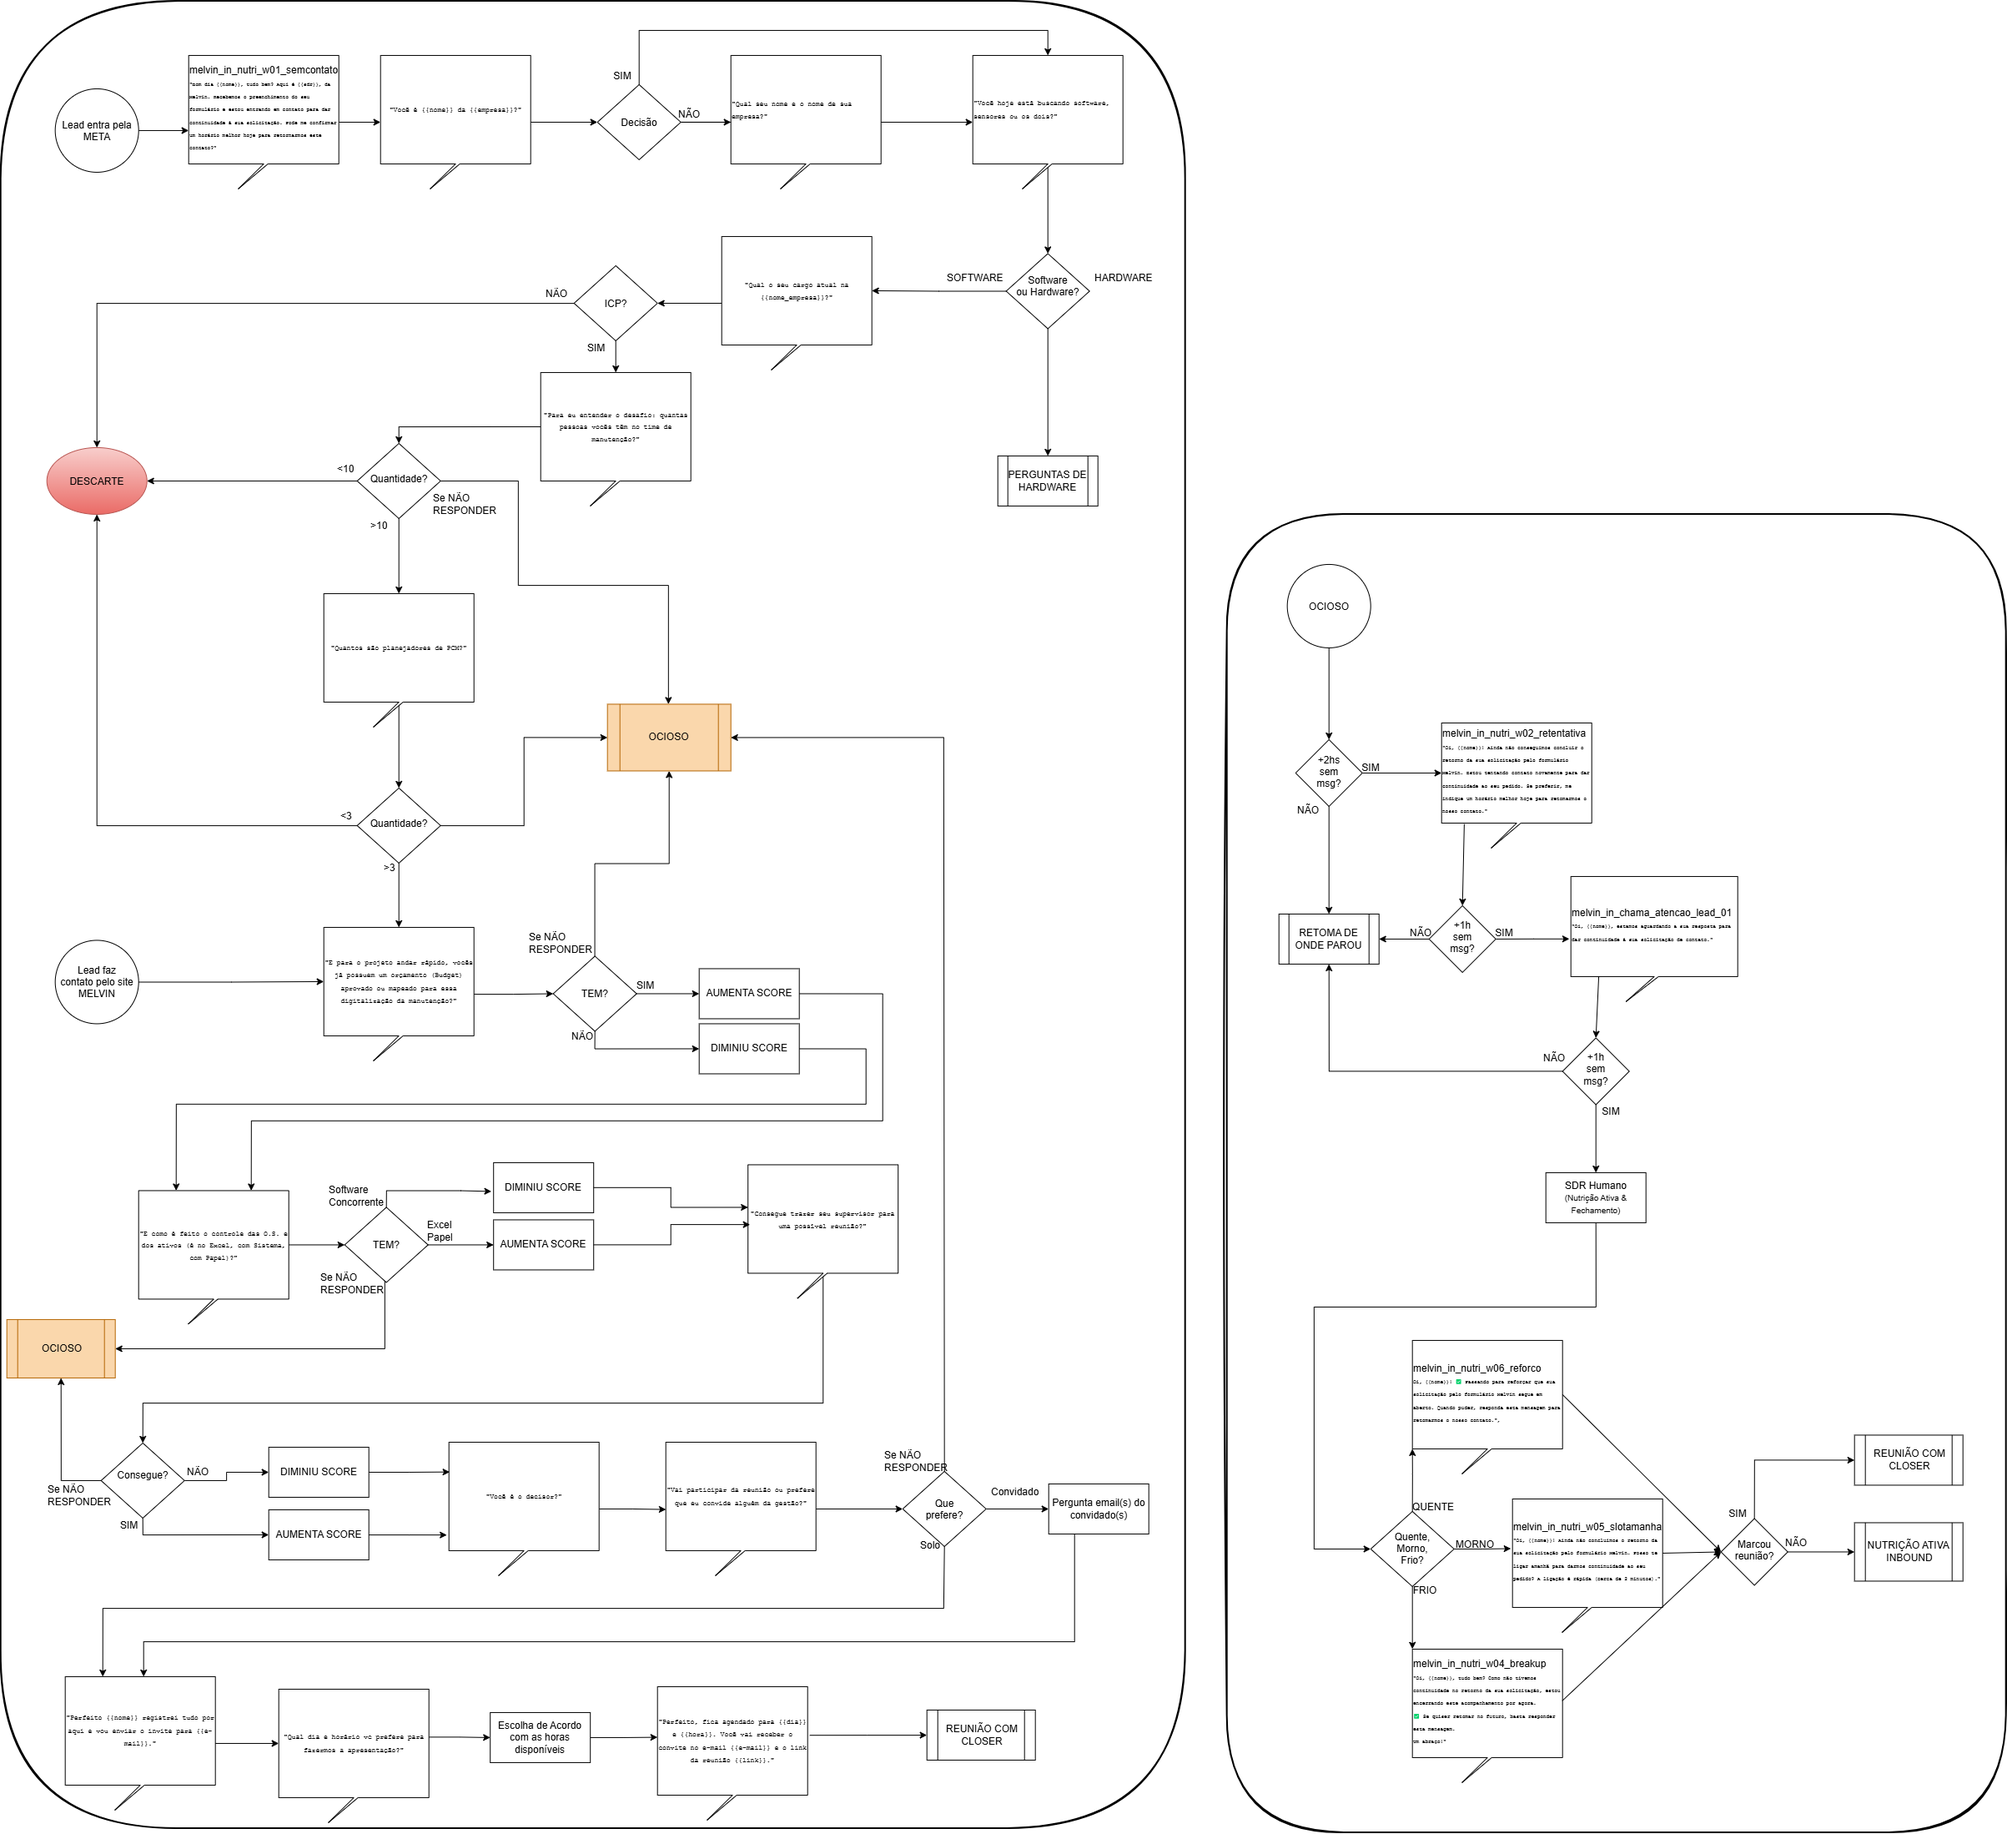
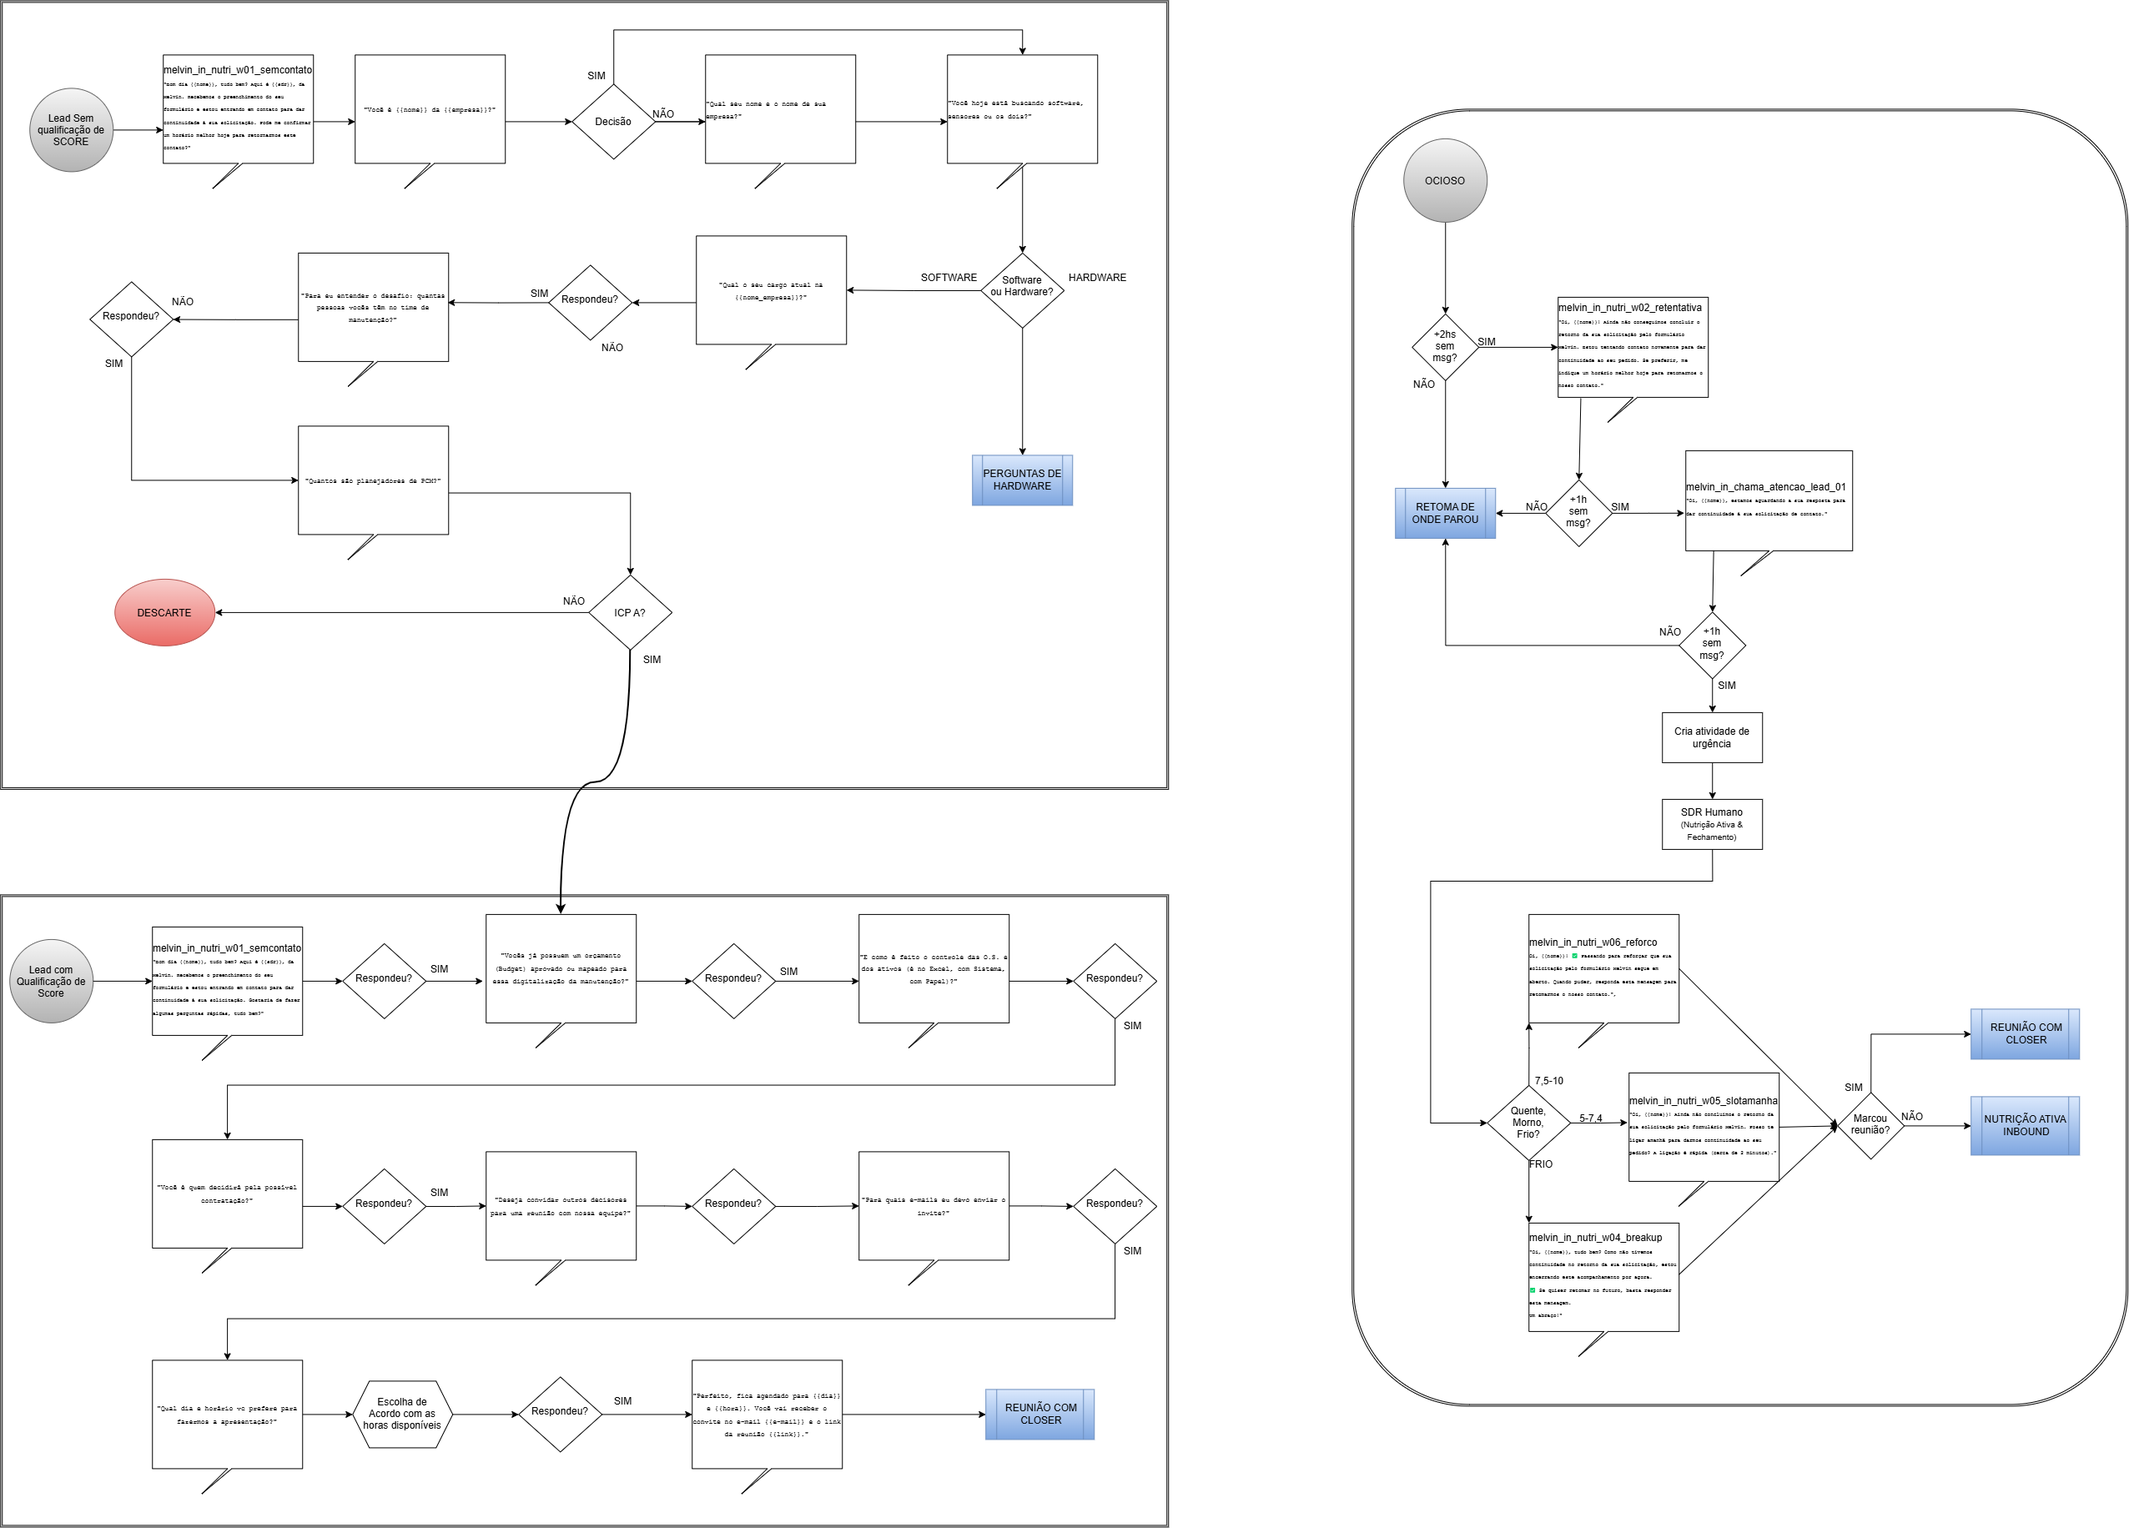
Update SDR IA flow from the latest meeting diagram.

diff --git a/index.html b/index.html
@@ -6,7 +6,7 @@
     <title>REBUILD 7 | MELVIN</title>
     
 	<link rel="icon" type="image/png" href="logo_simples_removebcg.png">
-  <link rel="stylesheet" href="styles.css?v=matriz-37">
+  <link rel="stylesheet" href="styles.css?v=matriz-38">
 	<link rel="preconnect" href="https://fonts.googleapis.com">
 	<link rel="preconnect" href="https://fonts.gstatic.com" crossorigin>
 	<link href="https://fonts.googleapis.com/css2?family=Manrope:wght@400;500;600;700;800&family=Sora:wght@600;700;800&family=Carlito:ital,wght@0,400;0,700;1,400&family=Libre+Baskerville:wght@400;700&display=swap" rel="stylesheet">
@@ -8362,14 +8362,15 @@ Um abraço!"
 
             <div class="cadencia-header-block" style="margin-bottom: 18px;">
                 <div class="cadencia-title-line" style="font-size: 1.8rem; color: #10b981;">FLUXO COMERCIAL INBOUND · SDR IA</div>
-                <p class="cadencia-subtitle" style="padding-left: 0;">Diagrama <strong>oficial</strong> Melvin (draw.io) — qualificação automática + ocioso/nutrição. Zoom e arraste como nos outros fluxos.</p>
+                <p class="cadencia-subtitle" style="padding-left: 0;">Diagrama <strong>oficial</strong> atualizado na reunião — lead sem score, lead com score e ocioso/nutrição. Zoom e arraste no quadro.</p>
                 <div class="gim-source-chip">Fonte: Fluxo SDR IA.drawio</div>
             </div>
 
             <div id="fluxoSdrIaToolbar">
                 <div class="crono-tabs sdr-ia-tabs" role="tablist" aria-label="Processos SDR IA">
-                    <button type="button" class="crono-tab is-active" role="tab" aria-selected="true" data-fluxo-pdf="p1">Processo 1 · Qualificação</button>
-                    <button type="button" class="crono-tab" role="tab" aria-selected="false" data-fluxo-pdf="p2">Processo 2 · Ocioso &amp; Nutrição</button>
+                    <button type="button" class="crono-tab is-active" role="tab" aria-selected="true" data-fluxo-pdf="p1">Processo 1 · Sem score</button>
+                    <button type="button" class="crono-tab" role="tab" aria-selected="false" data-fluxo-pdf="p2">Processo 2 · Com score</button>
+                    <button type="button" class="crono-tab" role="tab" aria-selected="false" data-fluxo-pdf="p3">Processo 3 · Ocioso</button>
                     <button type="button" class="crono-tab" role="tab" aria-selected="false" data-fluxo-pdf="full">Mapa completo</button>
                 </div>
                 <div class="fluxo-toolbar">
@@ -8392,10 +8393,10 @@ Um abraço!"
                             id="fluxoSdrIaImg"
                             class="fluxo-pdf-img"
                             src="assets/fluxo-sdr-ia-p1.png"
-                            alt="Fluxo Comercial Inbound SDR IA — Processo 1 Qualificação"
+                            alt="Fluxo Comercial Inbound SDR IA — Processo 1 Lead sem score"
                             draggable="false"
-                            width="1490"
-                            height="2198"
+                            width="1416"
+                            height="788"
                         />
                         <svg class="fluxo-pdf-wires" id="fluxoSdrIaPathSvg" aria-hidden="true"></svg>
                         <div class="fluxo-pdf-hots" id="fluxoSdrIaHots" aria-hidden="false"></div>
@@ -8409,8 +8410,8 @@ Um abraço!"
             </div>
 
             <div class="fluxo-legend" style="margin-top:14px;">
-                <span><i class="lg-swatch lg-mkt"></i> META / Site</span>
-                <span><i class="lg-swatch lg-sdr"></i> SDR IA</span>
+                <span><i class="lg-swatch lg-sdr"></i> Sem score</span>
+                <span><i class="lg-swatch lg-mkt"></i> Com score</span>
                 <span><i class="lg-swatch lg-closer"></i> Closer</span>
                 <span style="color:#b91c1c;font-weight:700;">● DESCARTE</span>
                 <span style="color:#c2410c;font-weight:700;">■ OCIOSO</span>
@@ -13794,8 +13795,8 @@ Um abraço!"
         </section>
 
 	</main>
-  <script src="app.js?v=matriz-37"></script>
-  <script src="hire-matrix.js?v=matriz-37"></script>
+  <script src="app.js?v=matriz-38"></script>
+  <script src="hire-matrix.js?v=matriz-38"></script>
 	
 </body>
 </html>

diff --git a/app.js b/app.js
@@ -2794,10 +2794,11 @@ initFluxoPdfUX({
     sources: {
         p1: 'assets/fluxo-sdr-ia-p1.png',
         p2: 'assets/fluxo-sdr-ia-p2.png',
+        p3: 'assets/fluxo-sdr-ia-p3.png',
         full: 'assets/fluxo-sdr-ia-oficial.png'
     },
-    hots: { p1: [], p2: [], full: [] },
-    edges: { p1: [], p2: [], full: [] }
+    hots: { p1: [], p2: [], p3: [], full: [] },
+    edges: { p1: [], p2: [], p3: [], full: [] }
 });
 
 /* Objeções kit: busca + filtros por página */
